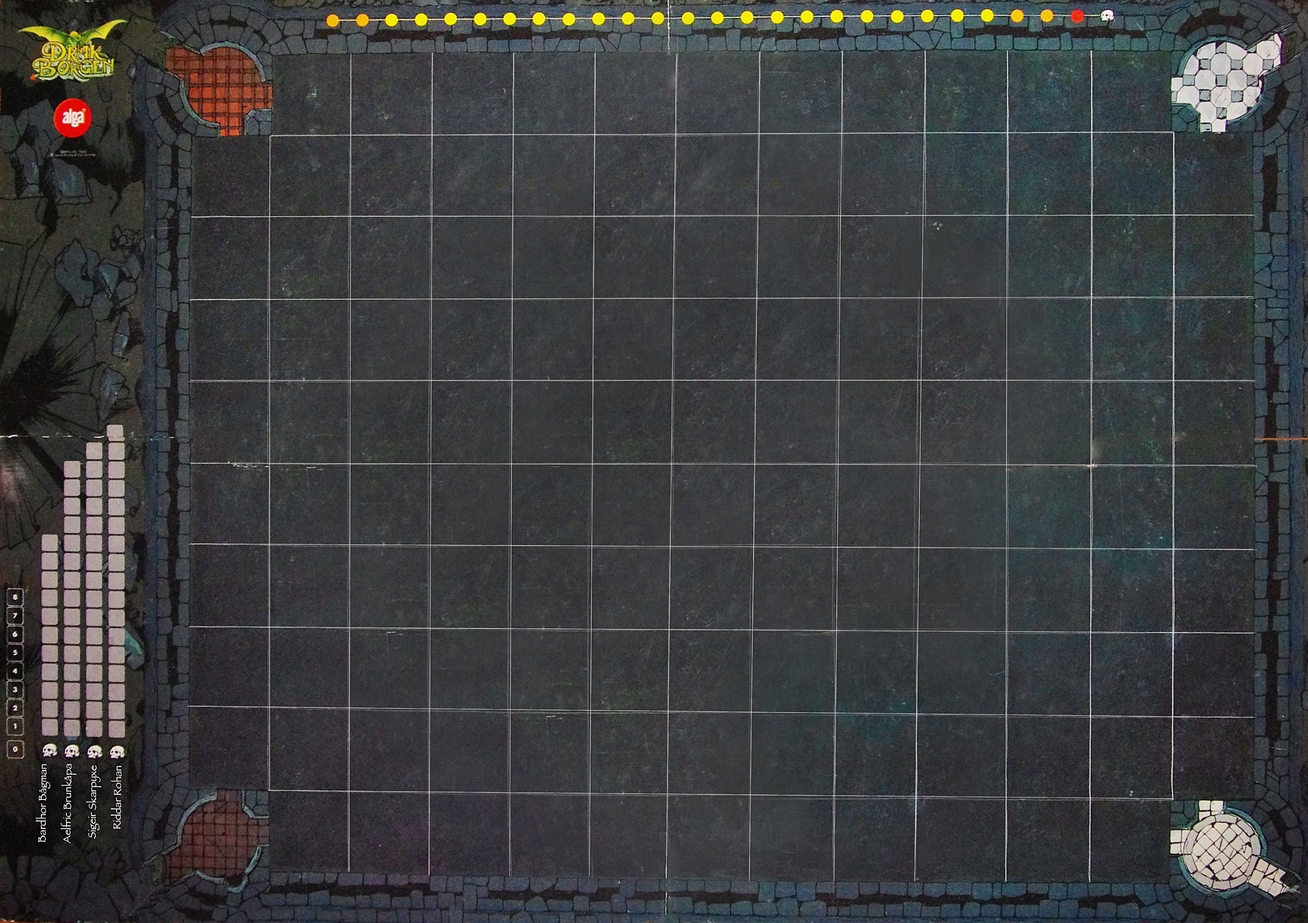
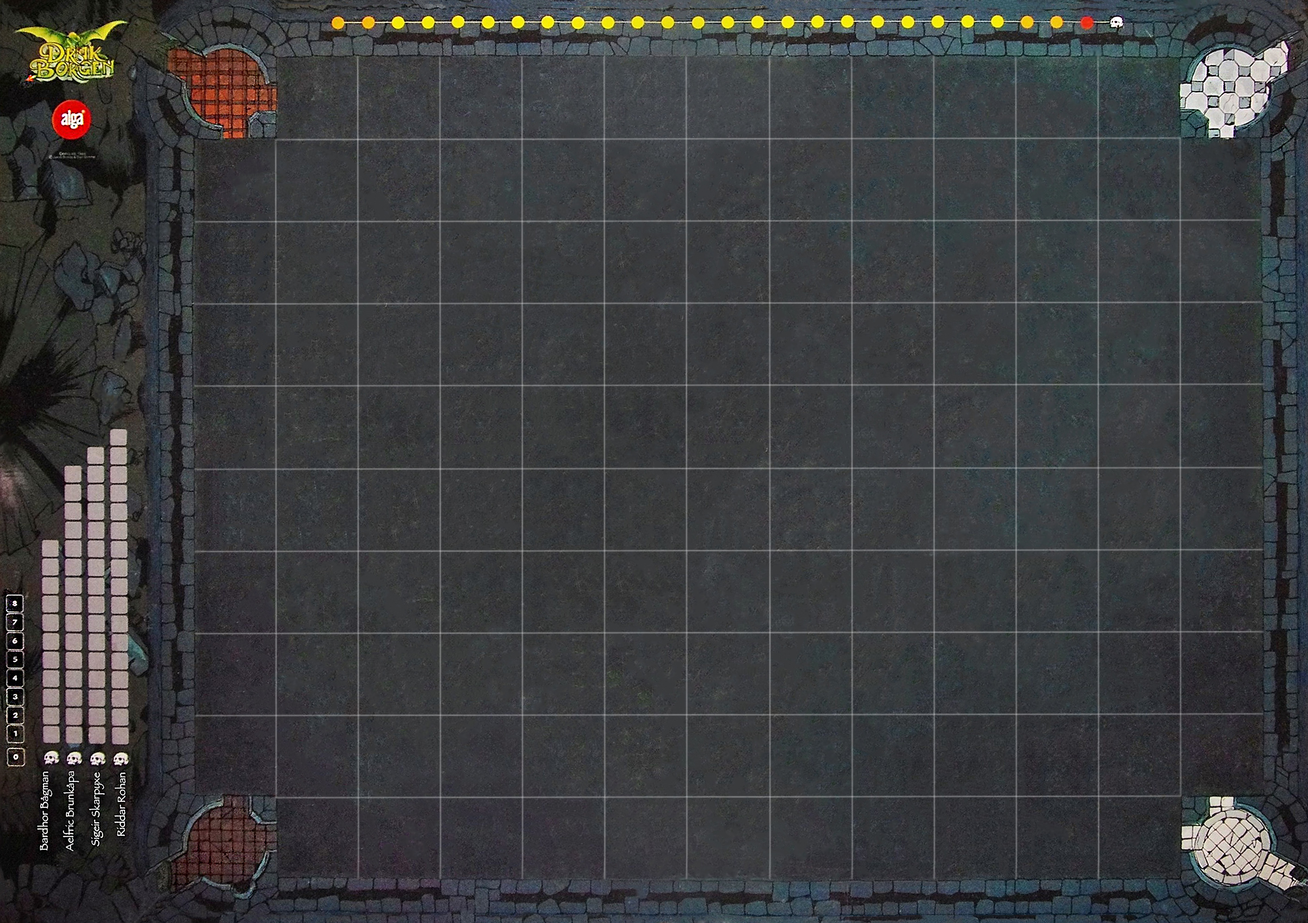
Corrected gae board

diff --git a/Drakborgen/Game.cpp b/Drakborgen/Game.cpp
@@ -112,14 +112,16 @@ void Game::run()
 	sf::Clock clock;
 	float lastTimestamp = 0.0f;
 	tiles.shuffle();
+	//bool toogle = false;
 	/*for (int row = 0; row < board.rowCount; ++row)
 	{
 		for (int column = 0; column < board.columnCount; ++column)
 		{
-			if (!tiles.isEmpty() && !board.hasTile({ row, column }))
+			if (toogle && !tiles.isEmpty() && !board.hasTile({ row, column }))
 			{
 				board.placeTile(tiles.pullNextItem(), { row, column });
 			}
+			toogle = !toogle;
 		}
 	}*/
 

diff --git a/Drakborgen/Board.h b/Drakborgen/Board.h
@@ -11,9 +11,9 @@
 class Board : public sf::Drawable, public sf::Transformable
 {
 public:
-	static constexpr float gridOriginX = 412.f;
+	static constexpr float gridOriginX = 418.f;
 	static constexpr float gridOriginY = 119.f;
-	static constexpr float tileSize = 177.f;
+	static constexpr float tileSize = 178.f;
 
 	struct Site
 	{

diff --git a/Drakborgen/Main.cpp b/Drakborgen/Main.cpp
@@ -5,14 +5,16 @@
 
 int main()
 {
-	//try
+	try
 	{
 		Game game;
 		Setup::setUpGame(game);
 		game.run();
 	}
-	/*catch (std::exception& e)
+	catch (std::exception& e)
 	{
-		std::cerr << "Uncaught std::exception: " << e.what();
-	}*/
+		std::cerr << e.what();
+		return 1;
+	}
+	return 0;
 }

diff --git a/Drakborgen/Tile.cpp b/Drakborgen/Tile.cpp
@@ -8,7 +8,7 @@ Tile::Tile(std::unique_ptr<TileLogic> tileLogic)
 Tile::Tile(const std::string& imagePath)
 	: sprite(imagePath)
 {
-	sprite.get().setScale(0.96f, 0.96f);
+	//sprite.get().setScale(0.96f, 0.96f);
 }
 
 std::unique_ptr<TileLogic>& Tile::getLogic()

diff --git a/Drakborgen/System.h b/Drakborgen/System.h
@@ -1,6 +1,8 @@
 #pragma once
 
-#define THROW throw std::runtime_error(__FUNCTION__)
+#define STRING(x) #x
+#define TO_STRING(x) STRING(x)
+#define THROW throw std::runtime_error(__FILE__ ":" TO_STRING(__LINE__) " " __FUNCTION__)
 
 class System
 {
